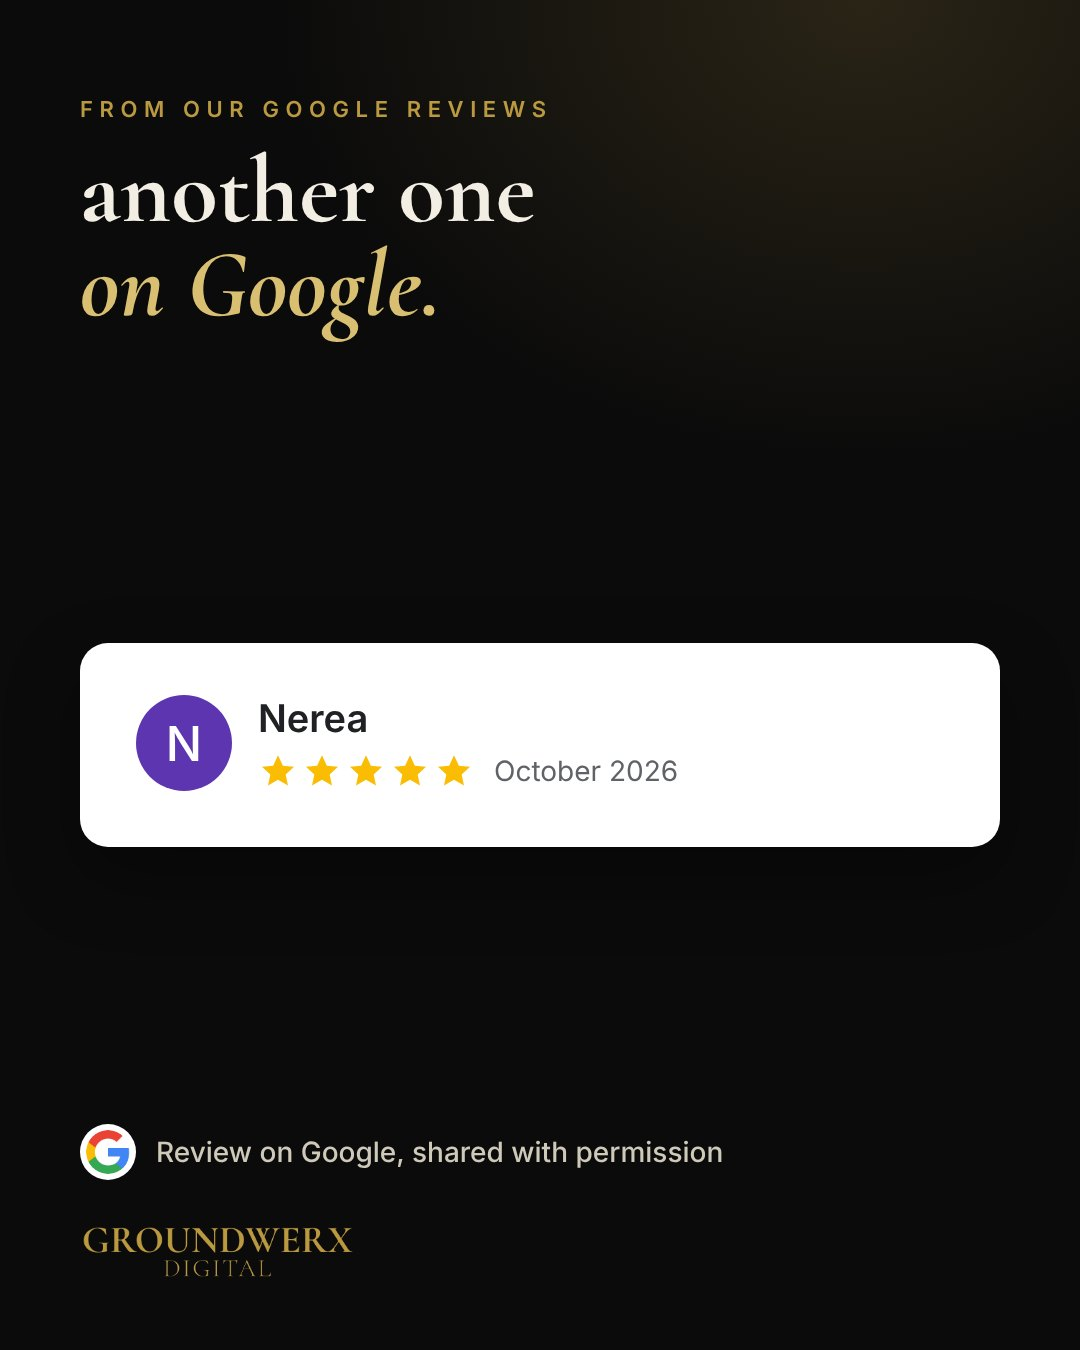
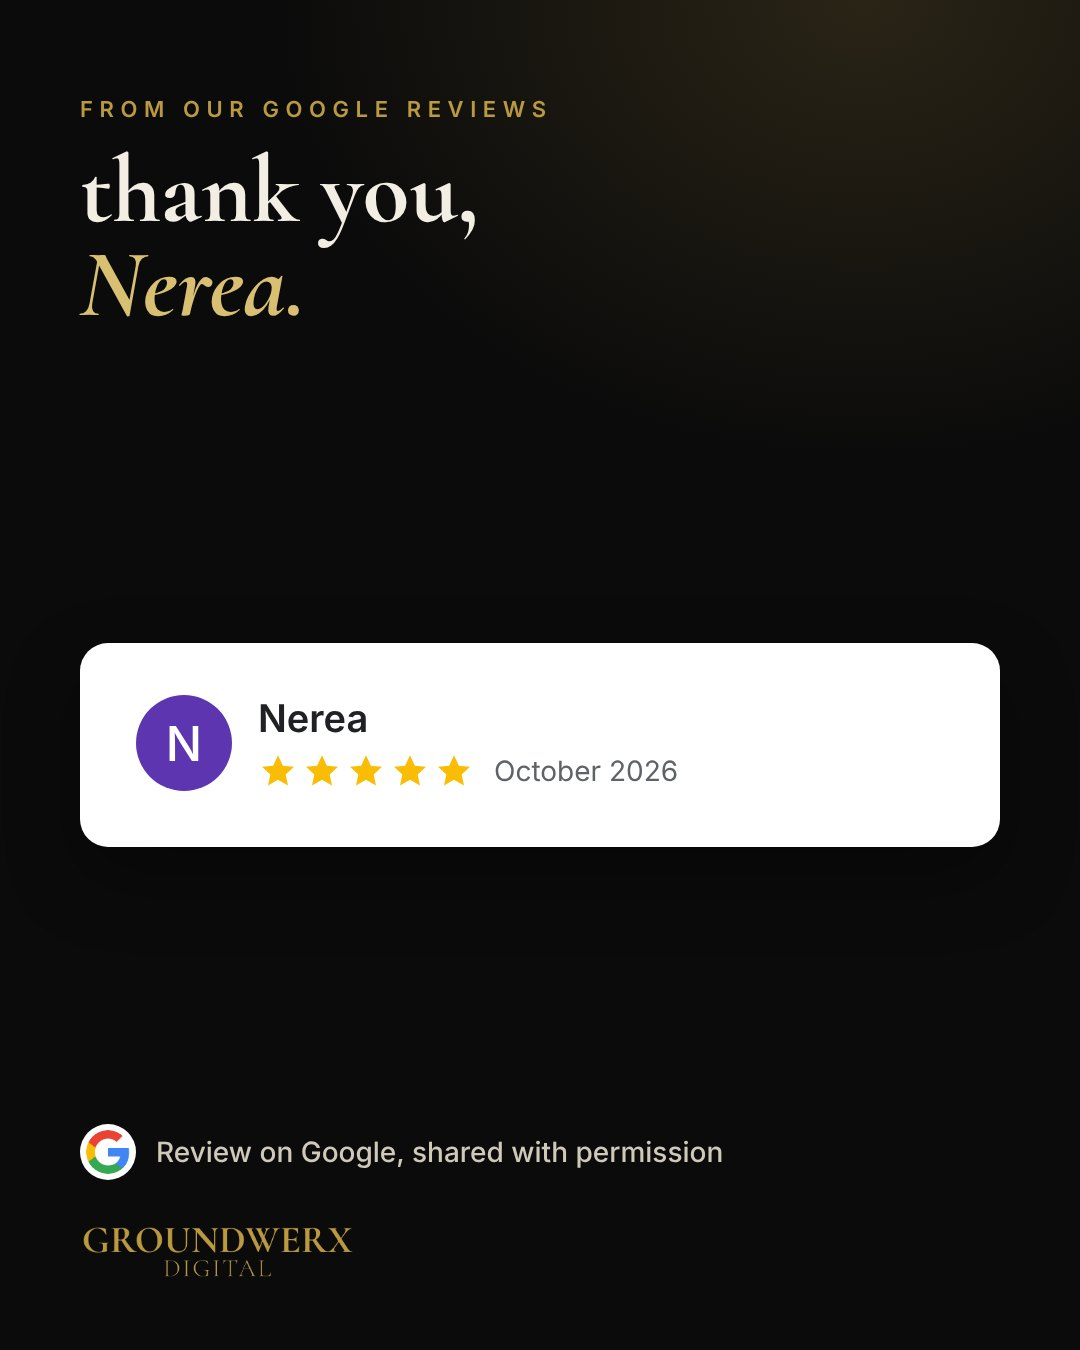
Review posts: keep the word Google out of the headline right above the stars
Claude-Session: https://claude.ai/code/session_01TmSJiPM9tFiY6yVYc9APoh

Changed region(s): [[0.0611, 0.0933, 0.4889, 0.2489]]

diff --git a/templates/review_posts.py b/templates/review_posts.py
@@ -44,7 +44,7 @@ REVIEWS = {
              "communication has been great, and we’ve been really happy with both the work and the results. "
              "Highly recommend them to other business owners!"),
     "nerea": dict(name="Nerea", initial="N", color="#5E35B1", month="October 2026", theme="dark",
-        headline="another one<br><i>on Google.</i>", text=""),
+        headline="thank you,<br><i>Nerea.</i>", text=""),
 }
 
 THEMES = {  # background, headline color, accent, label color, logo variant, footer text color
